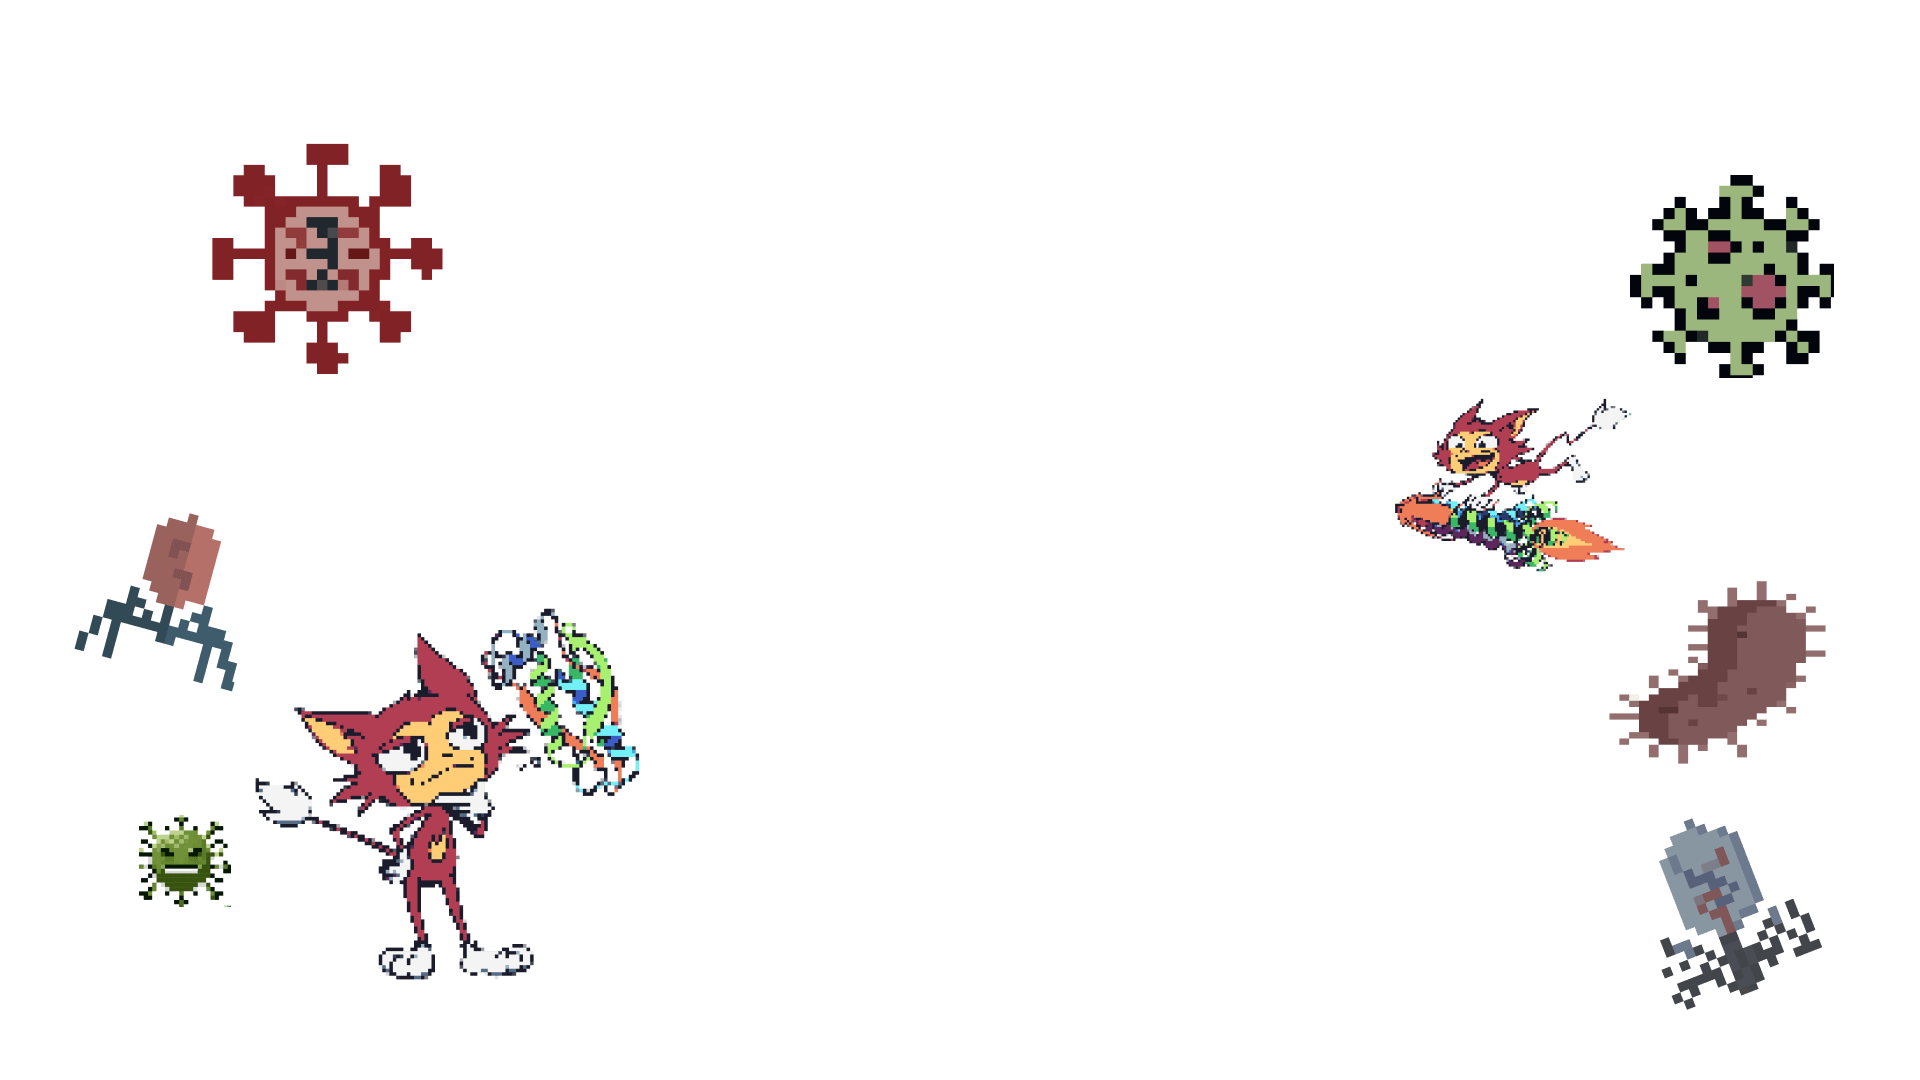
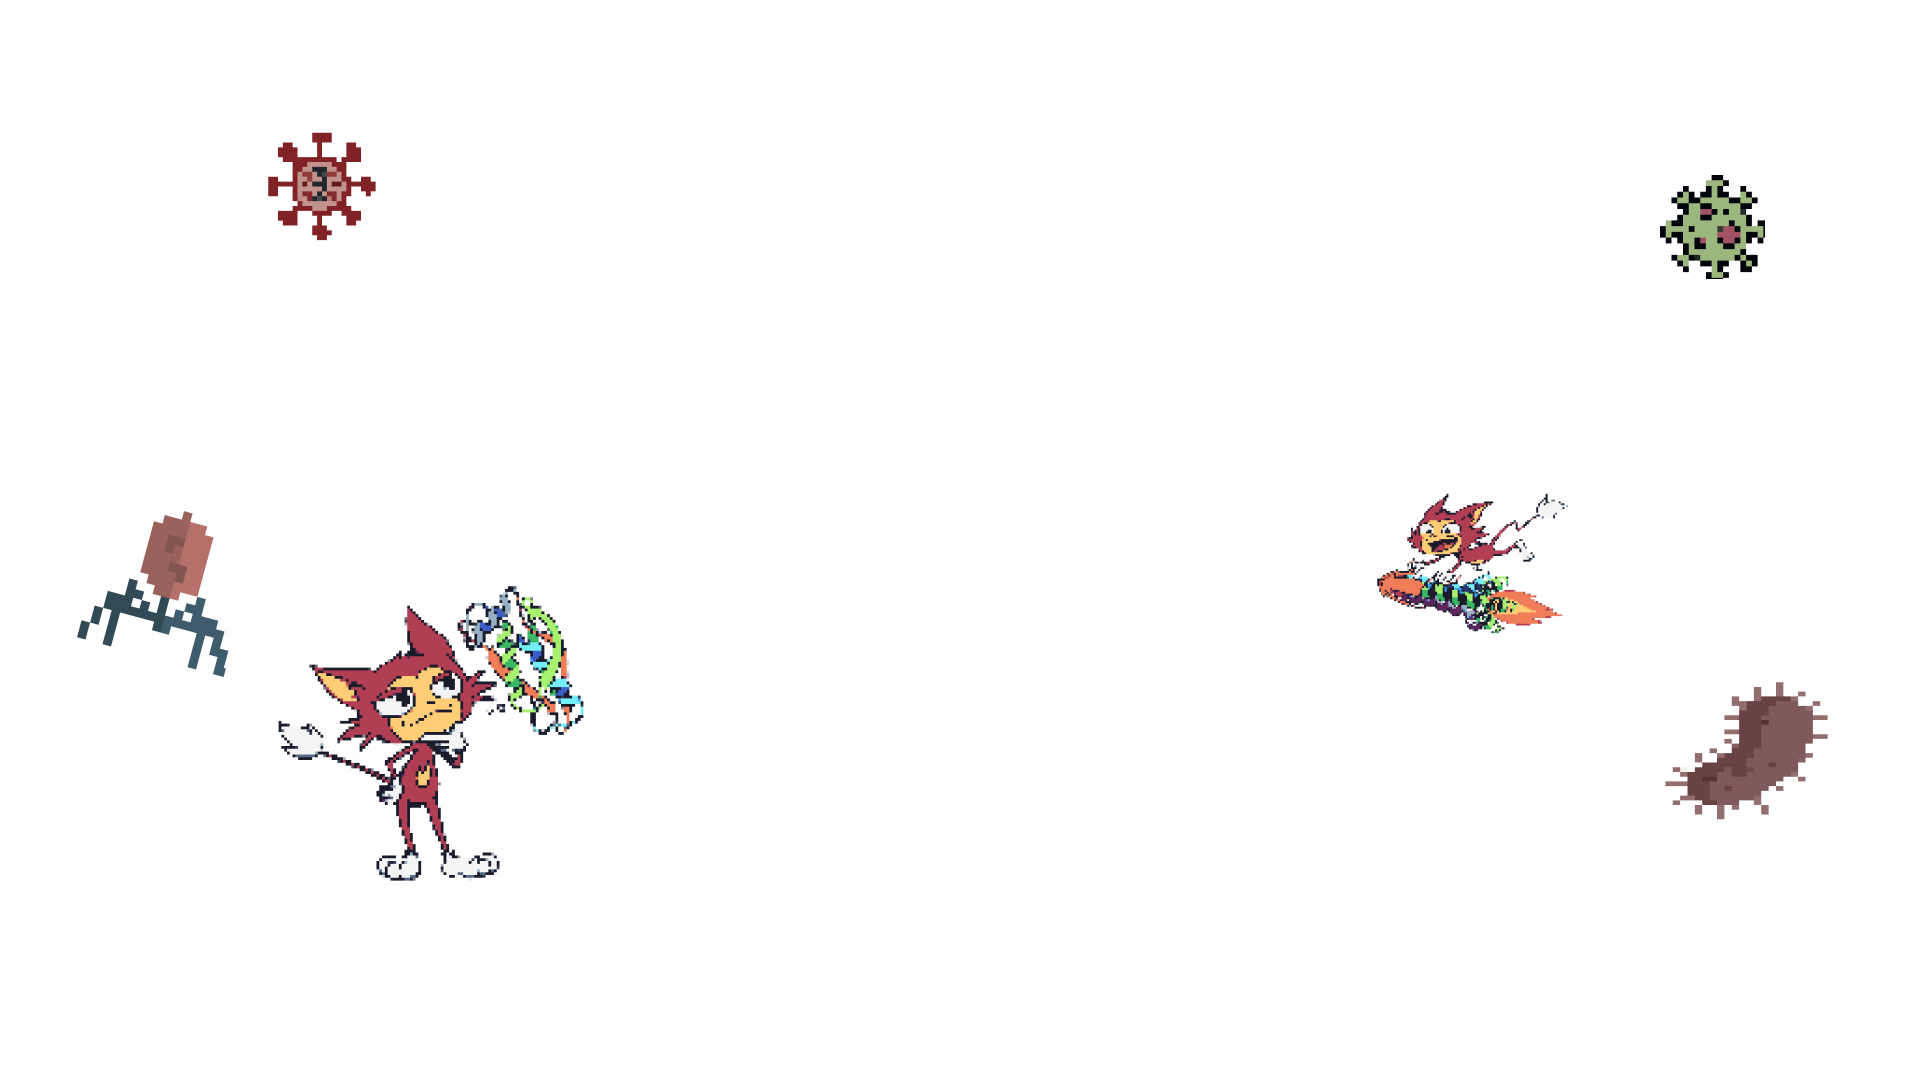
Changed configure for background

diff --git a/src/Search.vue b/src/Search.vue
@@ -4,7 +4,7 @@
             <v-flex xs12 pa-0 >
                 <v-parallax
                     :height="windowHeight"
-                    :src="require('./assets/bg-bg.png')"
+                    :src="require('./assets/BFVD-bg.png')"
                     dark
                 >
                     <v-row
@@ -369,7 +369,7 @@ code {
 
 .marv-bg-fg {
     background: url('./assets/bg-fg.png');
-    background-size: 100% auto;
+    background-size: 100% 100%;
     background-repeat: no-repeat;
     background-attachment: fixed;
     background-position: center center;

diff --git a/src/main.js b/src/main.js
@@ -119,8 +119,8 @@ Vue.use({
         };
         // let apiBase = "http://localhost:3000/api";
         // let apiBase = "https://cluster.foldseek.com/api";
-        // let apiBase = "https://bfvd.foldseek.com/api";
-        let apiBase = "/api";
+        let apiBase = "https://bfvd.foldseek.com/api";
+        // let apiBase = "/api";
         let defaultHeaders = {};
 
         const axiosConfig = {
